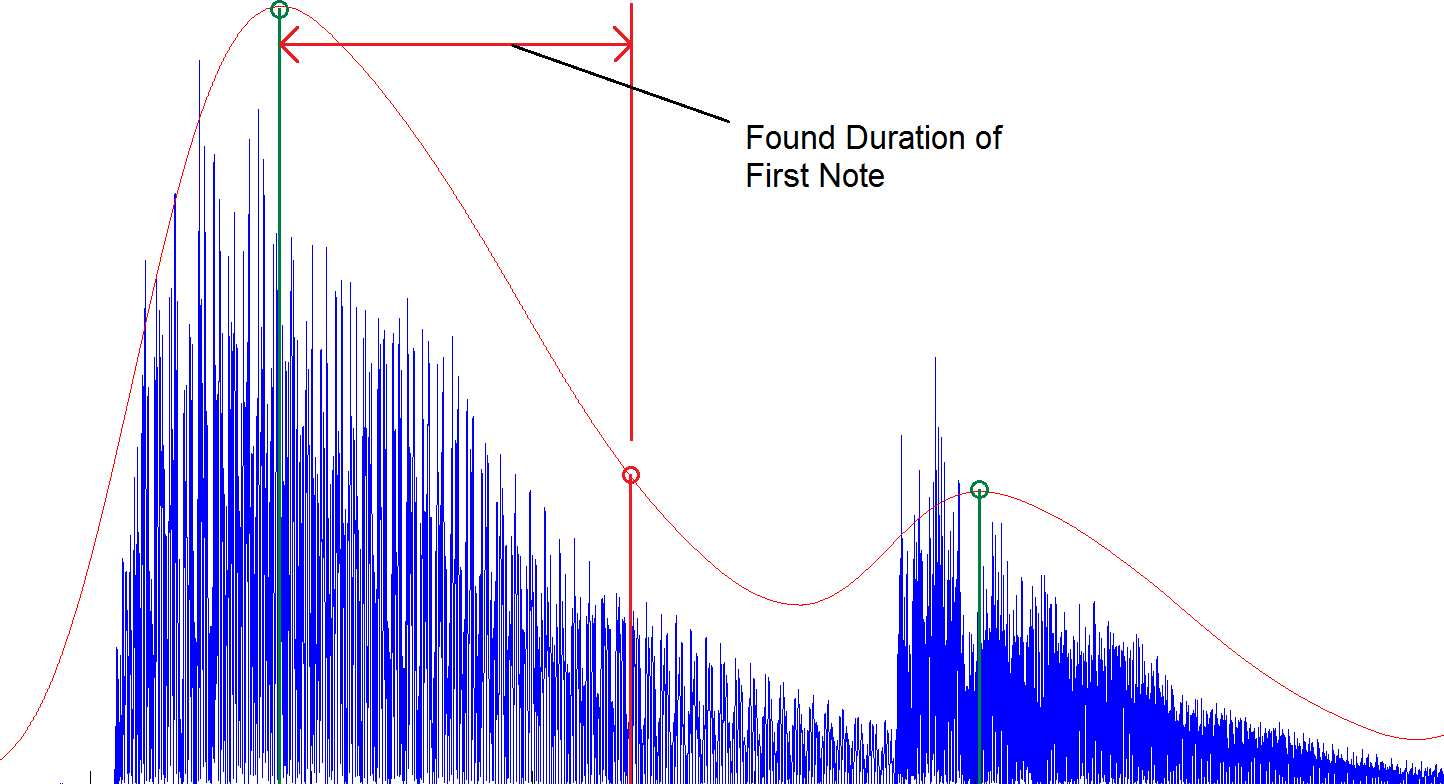
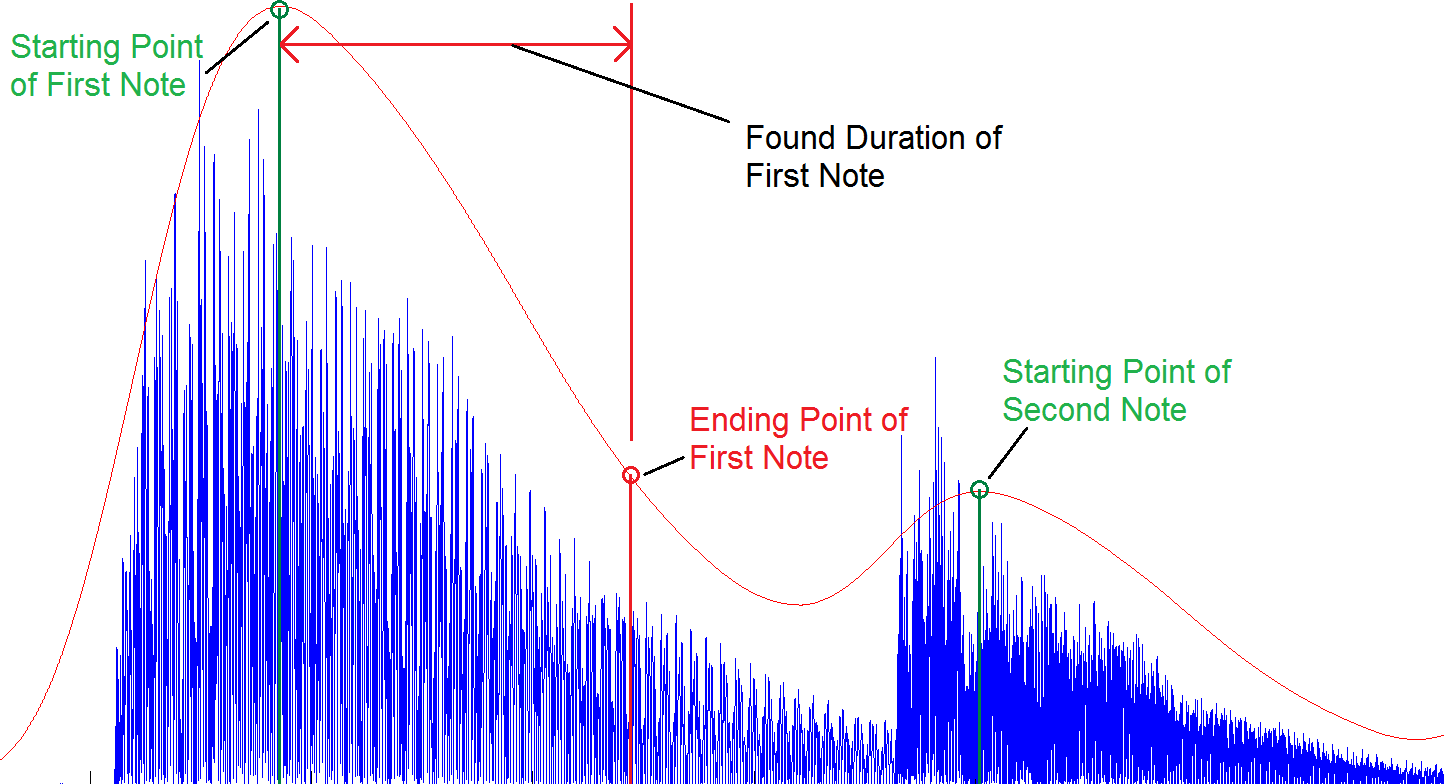
Added project Methodology and rearranged the figures appropriately

Changed region(s): [[0.6856, 0.4592, 0.8726, 0.551], [0.0, 0.0306, 0.187, 0.1224], [0.4675, 0.5204, 0.6544, 0.6122]]

diff --git a/audioToMelody/index.html b/audioToMelody/index.html
@@ -44,54 +44,102 @@
 					</ul>
 				</p>
 
-				<h2>Pictures-Testing</h2>
+				<h2>Definition - Decaying Instruments vs. Non-decaying Instruments</h2>
+				<p>
+					This project’s methodologies assume that the sound inputs are recordings of the decaying instruments. Decaying instruments include families of chordophones (i.e. Guitar, harps, piano, etc.) and percussion (i.e. xylophone) instruments. These instruments have highest sound intensity at the time of flicking strings/striking keys of the instrument, and the sound intensity exponentially decays over time. 
+				</p>
+				<p>
+					On the other hand, the common non-decaying instruments include woodwind instruments (i.e. Saxophone, flute, clarinet, etc.). When played with constant breath, these instruments’ sound intensities are somewhat equal over time.
+				</p>
+				
 				<div class="imageContainer">
-					<img class="image_margin" src="./img/1_A4WavFilePlot.png" alt="Matlab graph of A4 note">
+						<img class="image_margin" src="./img/1_A4WavFilePlot.png" alt="Matlab graph of A4 note">
+						<div class="LINE_BREAK_IMAGE_85"></div>
+						<p class="figureText">
+							Figure 1: Plot of sound signal (A4 note played in a digital keyboard)
+						</p>
+				</div>
+				
+				<p>
+					The Figure 1 shows a Matlab plot of the note A4 from a digital piano (Decaying instrument). As one can observe, it has the highest peaks at the beginning of the note and the peaks decrease exponentially over time.
+				</p>
+
+				<p>
+					Now that we agree on the expected behavior of the input, let’s remind ourselves of the objective of the project: we are to detect note signatures of the sound recording of a decaying instrument. This means we expect the recording inputs to have more than one instance of note. To be able to detect individual notes, we must first separate each note from one another.
+				</p>
+				<p>
+					Let’s start from the base case: recording with single note. 
+				</p>
+				
+				<div class="imageContainer">
+					<img class="image_margin" src="./img/2_1Magnitude_A4WavFilePlotStartIndicated.png" alt="Matlab graph of A4 note">
 					<div class="LINE_BREAK_IMAGE_85"></div>
 					<p class="figureText">
-						figure: hello world!
+						Figure 2: Magnitude plot of A4 sound signal
 					</p>
 				</div>
 
-				<div class="imageContainer">
-					<img class="image_margin" src="./img/2_0Magnitude_A4WavFilePlot.png" alt="Matlab graph of A4 note">
-				</div>
+				<p>
+					Consider Figure 2, which shows magnitude plot of the sound sample shown before in Figure 1. As humans, we can easily detect the starting point of the note – Our eyes can easily detect the sudden amplitude jump at the marked location.
+				</p>
+				<p>
+					Can we use the same approach in the algorithm? 
+				</p>
 
+				<h2>Detecting Starting Point of Notes - Locating Local Maximums</h2>
+				<p>
+					We can detect sudden amplitude jumps by finding local maximums in the plot. However, even though the plot in the Figure 2 might look like a bar graph, sound has a wave-like property and the amplitude oscillates very quickly over time. One can see this more clearly by zooming into the plot.
+				</p>
 				<div class="imageContainer">
-					<img class="image_margin" src="./img/2_1Magnitude_A4WavFilePlotStartIndicated.png" alt="Matlab graph of A4 note">
+					<img class="image_margin" src="./img/3_Magnitude_A4WavFilePlot_zoombox.png" alt="Matlab graph of A4 note">.
 				</div>
-
-				<div class="imageContainer">
-					<img class="image_margin" src="./img/3_Magnitude_A4WavFilePlot_zoombox.png" alt="Matlab graph of A4 note">
-				</div>
-
 				<div class="imageContainer">
 					<img class="image_margin" src="./img/4_zoomed.png" alt="Matlab graph of A4 note">
 				</div>
+				<p>
+					 Figure 3 shows the area where I have zoomed in, and Figure 4 shows the zoomed-in plot.
+				</p>
+				<p>
+					As it is shown, the plot is a high frequency sinusoid. If we were to find local maximums, we would be ending up with many false data points. In the Figure 4, I have labelled few of the peaks that would falsely detected as starting point of the note.
+				</p>
 
+				<p>
+					It is apparent that we need to simplify the data we are given with. If we can somehow average the peaks of the sinusoid and find a smooth curve that ‘envelopes’ the original plot, it can be used to detect overall behavior of the original plot. You can see an example of such envelope in Figure 5 below.
+				</p>
 				<div class="imageContainer">
 					<img class="image_margin" src="./img/5_fewPeaksCircled.png" alt="Matlab graph of A4 note">
 				</div>
 
+				<h2>Detecting Starting Point of Notes - Locating Local Maximums</h2>
+				<p>
+					We can use a Gaussian Filter to find the envelope. By convolving a Gaussian Curve to our plot, we can filter out the high frequency component of the plot. Although details of convolution operation will not be covered in this post, following points should be enough to understand this operation:
+					<ul>
+						<li>Convolution of two plots f(x) and g(x) in time-domain is equal to multiplication of the two in the frequency domain.</li>
+						<li>Gaussian Curve, which has a bell-curve shape in time-domain, holds its shape in frequency domain. However, the standard deviation of bell-curve in frequency domain is inverse of standard deviation of the bell-curve in the time-domain.</li>
+					</ul>
+				</p>
+				<p>
+					This means that if we want the envelope to keep overall shape of the plot, we must keep the low frequency components of the plot. And we can do so by convolving a Gaussian Curve with large standard deviation to the plot.
+				</p>
+
+				<p>
+					**Click to expand if you’re confused about why we must convolve a Gaussian curve with large standard deviation to the original plot**
+				</p>
+
+				<p>
+					Gaussian curve I used is shown in Figure 6. The size of the curve was determined from trial and error that forms the best envelope. 
+				</p>
+
 				<div class="imageContainer">
 					<img class="image_margin" src="./img/6_1_smoothItOut.png" alt="Matlab graph of A4 note">
 				</div>
+				<p>
+					Red curve in Figure 7 shows the computed envelope when the Gaussian curve is convoluted to the signal. After down sampling process, we can now find the starting point of the note by locating local maximums.
+				</p>
 
-				<div class="imageContainer">
-					<img class="image_margin" src="./img/6_2_smoothItOut.png" alt="Matlab graph of A4 note">
-				</div>
-
-				<div class="imageContainer">
-					<img class="image_margin" src="./img/7_0Original.png" alt="Matlab graph of A4 note">
-				</div>
-
-				<div class="imageContainer">
-					<img class="image_margin" src="./img/7_1smoothItOutEntire.png" alt="Matlab graph of A4 note">
-				</div>
-
-				<div class="imageContainer">
-					<img class="image_margin" src="./img/7_2DetectedPeak.png" alt="Matlab graph of A4 note">
-				</div>
+				<p>
+					The same procedure can be applied to recording input with multiple instances of note. Figure 8 to 10 below shows the algorithm being applied to multiple instances of note.
+				</p>
 
 				<div class="imageContainer">
 					<img class="image_margin" src="./img/8_HandlingMulti_WavFile.png" alt="Matlab graph of A4 note">
@@ -104,39 +152,24 @@
 				<div class="imageContainer">
 					<img class="image_margin" src="./img/10_HandlingMulti_magOfwavANDGaussian.png" alt="Matlab graph of A4 note">
 				</div>
+				<p>
+					Now that we’re able to find out the starting points of each notes, we will now find the ending points, in order to extract individual instance of notes from the recording.
+				</p>
 
-				<div class="imageContainer">
-					<img class="image_margin" src="./img/11_HandlingMulti_magOfwavANDGaussian_ZoomWindow.png" alt="Matlab graph of A4 note">
-				</div>
 
-				<div class="imageContainer">
-					<img class="image_margin" src="./img/12_HandlingMulti_zoomed.png" alt="Matlab graph of A4 note">
-				</div>
-
-				<div class="imageContainer">
-					<img class="image_margin" src="./img/13_HandlingMulti_zoomed_StartOfNote_Marked_FirstNote.png" alt="Matlab graph of A4 note">
-				</div>
-
-				<div class="imageContainer">
-					<img class="image_margin" src="./img/14_HandlingMulti_zoomed_StartOfNote_Marked_SecondNote.png" alt="Matlab graph of A4 note">
-				</div>
-
-				<div class="imageContainer">
-					<img class="image_margin" src="./img/15_HandlingMulti_zoomed_StartOfNote_FirstNoteEnding.png" alt="Matlab graph of A4 note">
-				</div>
+				<h2>Finding Ending Point of the Note</h2>
+				<p>
+					For ending points, we can simply take the midpoint of consecutive starting points. For the last note, we will extract the note until the recording ends.
+				</p>
 
 				<div class="imageContainer">
 					<img class="image_margin" src="./img/16_DurationOfFirstNote.png" alt="Matlab graph of A4 note">
 				</div>
+				<p>
+					Figure 11 shows the overall process of finding duration of the first note.
+				</p>
 
-				<div class="imageContainer">
-					<img class="image_margin" src="./img/17_HandlingMulti_magOfwavANDGaussiancopy.png" alt="Matlab graph of A4 note">
-				</div>
-
-				<div class="imageContainer">					
-					<img class="image_margin" src="./img/7_2DetectedPeak.png" alt="Matlab graph of A4 note">
-				</div>
-
+				<h2>Summary of Note Separation Algorithm</h2>
 				<div class="imageContainer">
 					<img class="image_margin" src="./img/18_SeparatedSegment.png" alt="Matlab graph of A4 note">
 					<div class="LINE_BREAK_IMAGE_85"></div>
